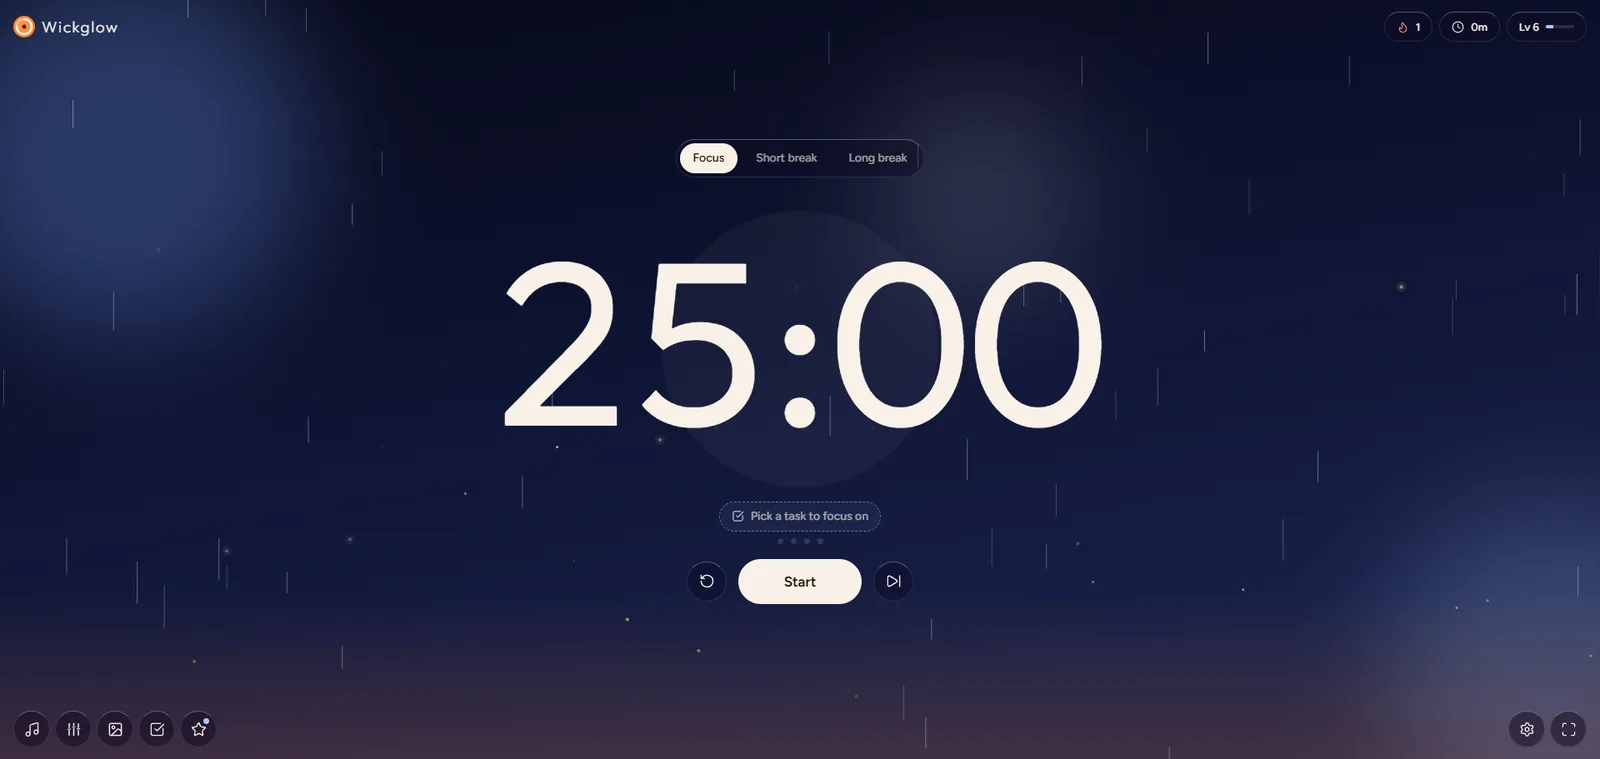
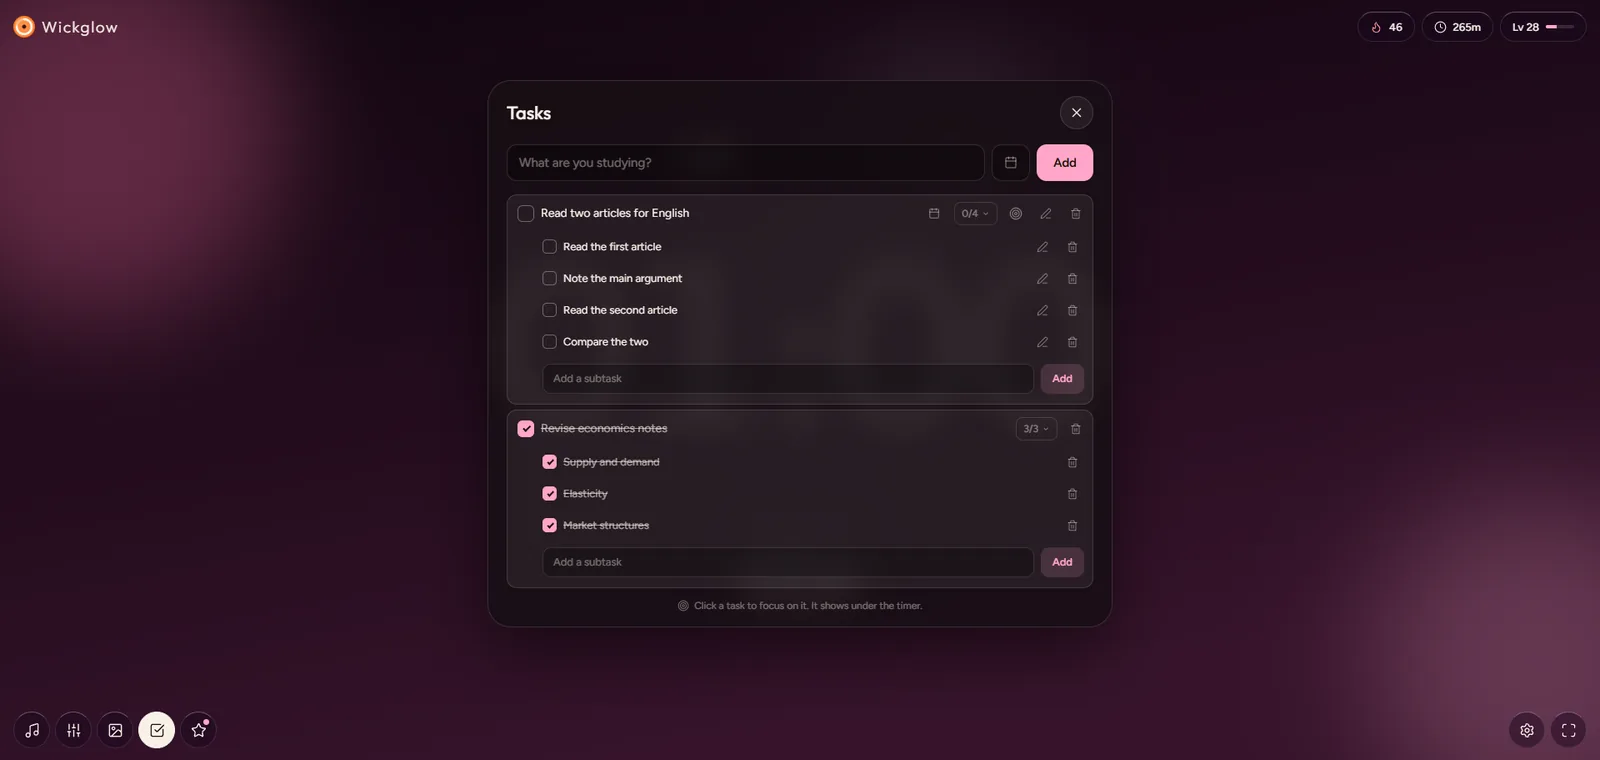
style: update landing gallery tasks showcase

diff --git a/components/landing/content.ts b/components/landing/content.ts
@@ -45,12 +45,12 @@ export const GALLERY: readonly GallerySlide[] = [
     ratio: 1600 / 759,
   },
   {
-    id: 'moonlit',
-    label: 'Moonlit',
-    caption: 'A big, quiet timer over a moonlit night with falling rain.',
+    id: 'tasks',
+    label: 'Tasks',
+    caption: 'Break study into tasks and subtasks, then pick one to focus on under the timer.',
     source: require('@/assets/landing/desktop-3.webp') as ImageSourcePropType,
-    alt: 'Wickglow on desktop: a 25:00 focus timer over a dark blue Moonlit scene with falling rain',
-    ratio: 1600 / 759,
+    alt: 'Wickglow on desktop with the Tasks panel open: a task split into four subtasks above a finished one',
+    ratio: 1600 / 760,
   },
   {
     id: 'music',

diff --git a/components/wickglow/screens/desktop.tsx b/components/wickglow/screens/desktop.tsx
@@ -780,9 +780,9 @@ const styles = StyleSheet.create({
   questsScroll: {
     maxWidth: 450,
   },
-  // Up to 900, the same as Progress (owner, 2026-11-15).
+  // Up to 750 (owner, 2026-11-15).
   tasksScroll: {
-    maxWidth: 900,
+    maxWidth: 750,
   },
   // Progress, Quests and Tasks: the card itself, capped at the space above the
   // dock. It clips, so its rounded corners hold while the body scrolls.

diff --git a/docs/agent/ui.md b/docs/agent/ui.md
@@ -89,7 +89,7 @@ Use tabular figures for every time and counter (`fontVariant: ['tabular-nums']`)
 
 - Phone (owner choice, 2026-11-12: fixed tab bar): the level ring and streak pills on top (all open Stats), the Focus / Short / Long tabs under them, then the candle, the time, the cycle line and pips, a Reset / start / Skip row, and the focus chip. A five-tab bar (Tasks, Sounds, Stats, Mood, Timer; Quests moved into Stats and Mood got its own tab on 2026-11-14) floats just above the bottom edge as a glass pill. The phone has its own lighter glass (owner request, 2026-11-12: the desktop glass read as too white): the `glass*` tokens above, a brighter frost and the mood accent for the open tab and the chosen mode instead of solid white, and the start buttons in glass tinted with the mood accent. Picking a tab slides a glass sheet up under the tab bar, up to 80% of the height, holding only that tab's content under a one-line timer (time, mode, play or pause, close). The screen behind dims; tapping it, the close button, the handle or the open tab closes the sheet. While typing, the sheet sits on the keyboard. Zen fades the top bar, mode tabs, Reset, Skip and the tab bar. The phone Sounds tab opens on a Tracks / Ambient switch (no Streaming; that is desktop only) and shows one view at a time; Ambient holds the ambient sliders; the mood picker has its own Mood tab. The phone Stats tab opens on a Stats / Calendar switch the same way: Stats holds the level card, today's numbers, the last 7 days and the daily quests (headed "Quests"), and the Stats tab carries the open-quest dot; Calendar holds the month view.
 - Tablet: split view. Timer on one side, tasks, sounds and quests always visible on the other. The side column is split into sections (Tasks, Mood, Sounds, Ambient sounds, Daily quests, Stats, Account, Timer settings), each after the first opening with a hairline divider and 24 of space above and below it. On Android and iOS this is also the landscape layout, because a phone or tablet is never wider than 840 on its shorter side.
-- Desktop: full-screen gradient scene, very large timer, a row of glass icon buttons along the bottom. The mixer and scenes open as a 390-wide card above the dock on the left, and timer settings opens the same card on the right, because its gear sits in the right dock group. Music, Progress, Quests and Tasks each open as a centered card, inset from the edges, above the dock. Progress, Quests and Tasks are only as tall as their content, capped at the space above the dock. Their heading stays put and only the body scrolls, in a box inset 8 from the card's sides, so the scrollbar runs inside the card (like the Music card's track list) and the rounded corners are never cut (2026-11-15). The Music card is a fixed height, 620 or the space above the dock when that is shorter, and the card itself does not scroll. Every modal uses the translucent sheet color, a 28 radius, and a soft shadow, so the scene shows through. Web uses this above 840 wide. Music is two columns. The left column is now playing, a compact row with the cover, title, transport and volume, then the playlist label, then the track list in two columns inside its own scrolling box, then the note about adding files. Each row has a washed note tile, and the playing row carries a small meter. The right column is one streaming card that fills the height: the paste field, saved links, and the embed, which grows to fill whatever is left so the card does not jump when a player opens. The transport is previous, play or pause, next, and a repeat toggle; the repeat toggle carries the layout accent and a wash while it is on, and a muted repeat glyph while it is off. Phone and tablet keep the transport in one row with the volume slider. Progress is two columns: the level ring with today's stats and the 7-day chart on the left, the month calendar with a shade legend and the tapped day on the right. Daily quests have their own Quests card, opened from the star button in the dock, one column and narrower than Progress. Tasks is a centered card up to 900 wide, the same as Progress (470 until 2026-11-15, when the owner asked for it wider): an add field with an optional due date, then each task with a checkbox, a title that focuses it, a due date, subtasks, edit, and delete. Finished tasks sit under the open ones. Phone and tablet use that same list in one column. Their track rows use the same washed note tile, selected wash, and playing meter as the desktop rows, in one column. The dock's Full screen button appears only where the browser can request element fullscreen, so it is absent on native and on the browsers that cannot, and it shows an active state while the scene is fullscreen.
+- Desktop: full-screen gradient scene, very large timer, a row of glass icon buttons along the bottom. The mixer and scenes open as a 390-wide card above the dock on the left, and timer settings opens the same card on the right, because its gear sits in the right dock group. Music, Progress, Quests and Tasks each open as a centered card, inset from the edges, above the dock. Progress, Quests and Tasks are only as tall as their content, capped at the space above the dock. Their heading stays put and only the body scrolls, in a box inset 8 from the card's sides, so the scrollbar runs inside the card (like the Music card's track list) and the rounded corners are never cut (2026-11-15). The Music card is a fixed height, 620 or the space above the dock when that is shorter, and the card itself does not scroll. Every modal uses the translucent sheet color, a 28 radius, and a soft shadow, so the scene shows through. Web uses this above 840 wide. Music is two columns. The left column is now playing, a compact row with the cover, title, transport and volume, then the playlist label, then the track list in two columns inside its own scrolling box, then the note about adding files. Each row has a washed note tile, and the playing row carries a small meter. The right column is one streaming card that fills the height: the paste field, saved links, and the embed, which grows to fill whatever is left so the card does not jump when a player opens. The transport is previous, play or pause, next, and a repeat toggle; the repeat toggle carries the layout accent and a wash while it is on, and a muted repeat glyph while it is off. Phone and tablet keep the transport in one row with the volume slider. Progress is two columns: the level ring with today's stats and the 7-day chart on the left, the month calendar with a shade legend and the tapped day on the right. Daily quests have their own Quests card, opened from the star button in the dock, one column and narrower than Progress. Tasks is a centered card up to 750 wide (470 until 2026-11-15, when the owner asked for it wider): an add field with an optional due date, then each task with a checkbox, a title that focuses it, a due date, subtasks, edit, and delete. Finished tasks sit under the open ones. Phone and tablet use that same list in one column. Their track rows use the same washed note tile, selected wash, and playing meter as the desktop rows, in one column. The dock's Full screen button appears only where the browser can request element fullscreen, so it is absent on native and on the browsers that cannot, and it shows an active state while the scene is fullscreen.
 - First-run tour (roadmap #13, 2026-11-15): the screen dims with `colors.scrim` except a cut-out around the part a step is about, ringed in the layout accent with a soft glow of the same colour. A glass card (`glassPanel`, `radius.sheet`, up to 340 wide, a top edge and soft outer glow in the accent) sits beside it, with a small turned-square pointer on the edge facing the part. The card's header has a round accent-washed badge with the part's own app icon, an accent "Step 2 of 6" line over an Outfit title, and a muted Skip at the right. Under it are one or two lines, then progress dots (the current one a wider accent pill, earlier ones half accent), a round Back button and an accent pill Next with a chevron ("Done" with a check on the last). The welcome card is centered: the logo in a glowing accent halo, a large Outfit title, the line, a full-width "Show me around" and a muted "Skip the tour". The card goes below the part, else above, else to a side; on tablet it tries the left first. The ring and card fade in over 260 ms, the card rising 8px as it does (at once with reduced motion). "Show tour again" is a muted underlined line in Timer settings, just above the About link.
 - About link (web only, owner 2026-11-15): the last line of Timer settings on every layout is a muted "About Wickglow" link (an 18px logo mark, then the underlined text) that opens the landing page (`/?home`) in a new tab.
 - Candle height maps to `remaining / total`. Four small candles show sessions toward a long break, a lit one is a completed session. Break candles use a cooler wax color.

diff --git a/docs/agent/progress.md b/docs/agent/progress.md
@@ -21,7 +21,7 @@ New users see a short tour that points at the timer, music, ambient sounds, mood
 - Google Play release. See Google Play deployment.
 - EAS preview and production environments have no Firebase vars yet (only development does), so a `preview` APK build cannot reach Firebase until the seven vars are ticked for both on expo.dev. See `docs/feature/firebase.md`, Owner tasks.
 - Review fixes 2026-11-15: no session can start while a sign-out runs, and sign-out stops when storage could not be read at launch. A state taken from another tab keeps that tab's task edit times. Gallery arrows keep counting past either end. Privacy policy: removed the wrong Android streaming sentence. Pixabay licence note now covers lightly changed copies.
-- Landing gallery 2026-11-15: the pixel-art meadow (`desktop.webp`) is now the first slide. The third slide is a new Music panel shot (`desktop-2.webp`, from the new `screenshots/desktop-2.png`) and replaces the Amber one. The phone shot beside the Android download (`mobile.webp`) is the new `screenshots/mobile.png`.
+- Landing gallery 2026-11-15: the pixel-art meadow (`desktop.webp`) is now the first slide. The third slide is a new Music panel shot (`desktop-2.webp`, from the new `screenshots/desktop-2.png`) and replaces the Amber one. The phone shot beside the Android download (`mobile.webp`) is the new `screenshots/mobile.png`. The second slide is now a Tasks panel shot (`desktop-3.webp`, 1600x760, from the owner's new PNG) and replaces the Moonlit one.
 - C1 fixed 2026-11-15: every video left is cleared, and Night Hills was removed. See `BACKGROUND_LICENSES.md`. The landing page now waits only on the APK link.
 - App to landing page link 2026-11-15 (owner): web only, a quiet "About Wickglow" link as the last line of Timer settings (phone Timer tab, tablet side column, desktop settings card). It opens `/?home` (`LANDING_HOME_PATH`) in a new tab, so the returning-visitor script does not send it back and a running session keeps going.
 
@@ -64,7 +64,7 @@ None right now.
 
 - Android date picker (2026-11-15, owner approved the dependency): `@react-native-community/datetimepicker` 9.2.1 via `npx expo install`, with its config plugin in `app.json`. The add form and each task row show a calendar button that opens the system date dialog (`features/tasks/due-picker.android.ts`; OK sets the day, Clear removes it, Cancel leaves it). It is native code, so it needs a new EAS build; check there that picking, changing and clearing a date work and that the day does not shift. `expo-doctor` passes 20/20.
 - Task list speed and synced subtasks (2026-11-15, owner report: Android lagged with 20 tasks and about 80 subtasks, and synced subtasks were hidden). Each task row is now a memoized `TaskItem`, and the new-task and subtask drafts live in their own row, so typing or changing one task redraws only that row. A subtask new from the account opens its parent's list (`reconcile` in `src/core/sync.ts`), as adding one on the device does. Tasks synced before this change stay closed until tapped once. Check on the Android build that typing and ticking feel quick with a long list.
-- Desktop cards (2026-11-15, owner): Tasks is up to 900 wide, and Progress, Quests and Tasks scroll inside the card under a fixed heading, so the scrollbar sits inside the card and the bottom corners stay rounded. Phone tour: the Ambient step opens Sounds on Ambient and points at the Ambient button. "Show tour again" sits right of "About Wickglow" on one line. Not yet looked at in a browser.
+- Desktop cards (2026-11-15, owner): Tasks is up to 750 wide, and Progress, Quests and Tasks scroll inside the card under a fixed heading, so the scrollbar sits inside the card and the bottom corners stay rounded. Phone tour: the Ambient step opens Sounds on Ambient and points at the Ambient button. "Show tour again" sits right of "About Wickglow" on one line. Not yet looked at in a browser.
 - First-run tour (2026-11-15): checked in a browser at desktop, phone (390 wide) and tablet (760 wide) widths: every step finds its part, the tablet columns scroll to it, Done and Skip store `wickglow:tour` and it does not return, and "Show tour again" starts it. Still to check on an Android build: the highlight sits on each tab (Android measures in window coordinates under the status bar), and the tablet layout in landscape.
 - Retired scene clean-up (2026-11-15, from a code review): on launch the app deletes downloaded scenes no longer in `VIDEOS` or `PIXEL_ART` (`removeRetiredScenes`). On a phone that had the old Cyberpunk Desk or Night Hills downloaded, check they are gone and the other downloads stay.
 
